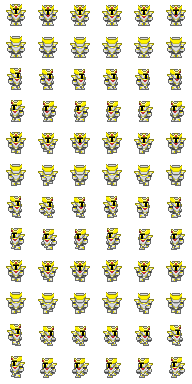
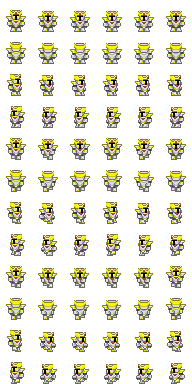
new level & animations

diff --git a/2DGame/src/_Scene.cpp b/2DGame/src/_Scene.cpp
@@ -83,8 +83,8 @@ void _Scene::initGL() {
     glMaterialfv(GL_FRONT, GL_SPECULAR,  mat_specular);
     glMaterialfv(GL_FRONT, GL_SHININESS, high_shininess);
 
-    myTex->loadTexture("images/map Layer 1.png");
-    myTex2->loadTexture("images/map Layer 2.png");
+    myTex->loadTexture("images/map Layer 1 ALT.png");
+    myTex2->loadTexture("images/map Layer 2 ALT.png");
     mySprite->spriteInit("images/knightAnimations3.png", 6, 12);
 
     myCollider->loadFromTexture(

diff --git a/2DGame/src/_sprite.cpp b/2DGame/src/_sprite.cpp
@@ -41,7 +41,7 @@ void _sprite::drawSprite(float x, float y, float z)
     pos.z = z;
 
     glPushMatrix();
-        glTranslatef(pos.x, pos.y, pos.z);
+        glTranslatef(x, y + pivotOffsetY, z);
         myTex->bindTexture();
 
         glTexParameteri(GL_TEXTURE_2D, GL_TEXTURE_WRAP_S, GL_CLAMP_TO_EDGE);

diff --git a/2DGame/src/_inputs.cpp b/2DGame/src/_inputs.cpp
@@ -112,6 +112,7 @@ void _inputs::keyPressed(_sprite* mySprite, float deltaTime, _collisionCheck* my
         float nextX = mySprite->pos.x + dx * dashStep;
         float nextY = mySprite->pos.y + dy * dashStep;
 
+        //Player Height
         float halfW = 0.20f;
         float halfH = 0.30f;
 

diff --git a/2DGame/include/_sprite.h b/2DGame/include/_sprite.h
@@ -23,6 +23,7 @@ class _sprite
         void spriteInit(char *, int, int);                  //filename, number of x and y frames
         void drawSprite(float, float, float);
         void spriteActions();
+        float pivotOffsetY = 0.20f;
 
         int prevAction = -1;
 
